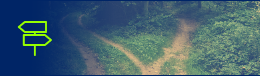
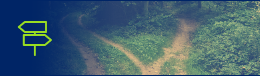
update color
color

Changed region(s): [[0.0615, 0.2632, 0.1846, 0.7368], [0.1846, 0.5, 0.2154, 0.5526]]

diff --git a/etw.html b/etw.html
@@ -83,7 +83,7 @@
 			* @style heading 2
 			*/
 			h2{
-				/*@editable*/ color:#62FF10 !important;
+				/*@editable*/ color:#99DD22 !important;
 				display:block;
 				/*@editable*/ font-family:"微軟正黑體" , Helvetica;
 				/*@editable*/ font-size:24px;
@@ -174,7 +174,7 @@
 			* @tip Set the styling for your email's preheader links. Choose a color that helps them stand out from your text.
 			*/
 			.preheaderContent a:link, .preheaderContent a:visited, /* Yahoo! Mail Override */ .preheaderContent a .yshortcuts /* Yahoo! Mail Override */{
-				/*@editable*/ color:#62FF10;
+				/*@editable*/ color:#99DD22;
 				/*@editable*/ font-weight:normal;
 				/*@editable*/ text-decoration:none;
 			}
@@ -187,7 +187,7 @@
 			*/
 			#templateHeader{
 				/*@editable*/ background-color:#002566;
-				/*@editable*/ border-top:1px solid #62FF10;
+				/*@editable*/ border-top:1px solid #99DD22;
 				/*@editable*/ border-bottom:1px solid #006D3E;
 			}
 
@@ -216,7 +216,7 @@
 			* @tip Set the styling for your email's header links. Choose a color that helps them stand out from your text.
 			*/
 			.headerContent a:link, .headerContent a:visited, /* Yahoo! Mail Override */ .headerContent a .yshortcuts /* Yahoo! Mail Override */{
-				/*@editable*/ color:#62FF10;
+				/*@editable*/ color:#99DD22;
 				/*@editable*/ font-weight:normal;
 				/*@editable*/ text-decoration:underline;
 			}
@@ -235,7 +235,7 @@
 			*/
 			#templateBody{
 				/*@editable*/ background-color:#002566;
-				/*@editable*/ border-top:1px solid #62FF10;
+				/*@editable*/ border-top:1px solid #99DD22;
 				/*@editable*/ border-bottom:1px solid #006D3E;
 			}
 
@@ -264,7 +264,7 @@
 			* @tip Set the styling for your email's main content links. Choose a color that helps them stand out from your text.
 			*/
 			.bodyContent a:link, .bodyContent a:visited, /* Yahoo! Mail Override */ .bodyContent a .yshortcuts /* Yahoo! Mail Override */{
-				/*@editable*/ color:#62FF10;
+				/*@editable*/ color:#99DD22;
 				/*@editable*/ font-weight:bold;
 				/*@editable*/ text-decoration:none;
                 
@@ -287,7 +287,7 @@
 			*/
 			#templateColumns{
 				/*@editable*/ background-color:#002566;
-				/*@editable*/ border-top:0px solid #62FF10;
+				/*@editable*/ border-top:0px solid #99DD22;
 				/*@editable*/ border-bottom:0px solid #006D3E;
 			}
 
@@ -315,7 +315,7 @@
 			* @tip Set the styling for your email's left column content links. Choose a color that helps them stand out from your text.
 			*/
 			.leftColumnContent a:link, .leftColumnContent a:visited, /* Yahoo! Mail Override */ .leftColumnContent a .yshortcuts /* Yahoo! Mail Override */{
-				/*@editable*/ color:#62FF10;
+				/*@editable*/ color:#99DD22;
 				/*@editable*/ font-weight:bold;
 				/*@editable*/ text-decoration:none;
 			}
@@ -343,7 +343,7 @@
 			* @tip Set the styling for your email's center column content links. Choose a color that helps them stand out from your text.
 			*/
 			.centerColumnContent a:link, .centerColumnContent a:visited, /* Yahoo! Mail Override */ .centerColumnContent a .yshortcuts /* Yahoo! Mail Override */{
-				/*@editable*/ color:#62FF10;
+				/*@editable*/ color:#99DD22;
 				/*@editable*/ font-weight:normal;
 				/*@editable*/ text-decoration:underline;
 			}
@@ -372,7 +372,7 @@
 			* @tip Set the styling for your email's right column content links. Choose a color that helps them stand out from your text.
 			*/
 			.rightColumnContent a:link, .rightColumnContent a:visited, /* Yahoo! Mail Override */ .rightColumnContent a .yshortcuts /* Yahoo! Mail Override */{
-				/*@editable*/ color:#62FF10;
+				/*@editable*/ color:#99DD22;
 				/*@editable*/ font-weight:normal;
 				/*@editable*/ text-decoration:underline;
 			}
@@ -392,8 +392,8 @@
 			* @theme footer
 			*/
 			#templateFooter{
-				/*@editable*/ background-color:#002566;
-				/*@editable*/ border-top:1px solid #62FF10;
+				/*@editable*/  background-color:#002566;
+				/*@editable*/ border-top:1px solid #99DD22;
 			
 			}
 
@@ -421,7 +421,7 @@
 			* @tip Set the styling for your email's footer links. Choose a color that helps them stand out from your text.
 			*/
 			.footerContent a:link, .footerContent a:visited, /* Yahoo! Mail Override */ .footerContent a .yshortcuts, .footerContent a span /* Yahoo! Mail Override */{
-				/*@editable*/ color:#62FF10;
+				/*@editable*/ color:#99DD22;
 				/*@editable*/ font-weight:normal;
 				/*@editable*/ text-decoration:underline;
 			}
